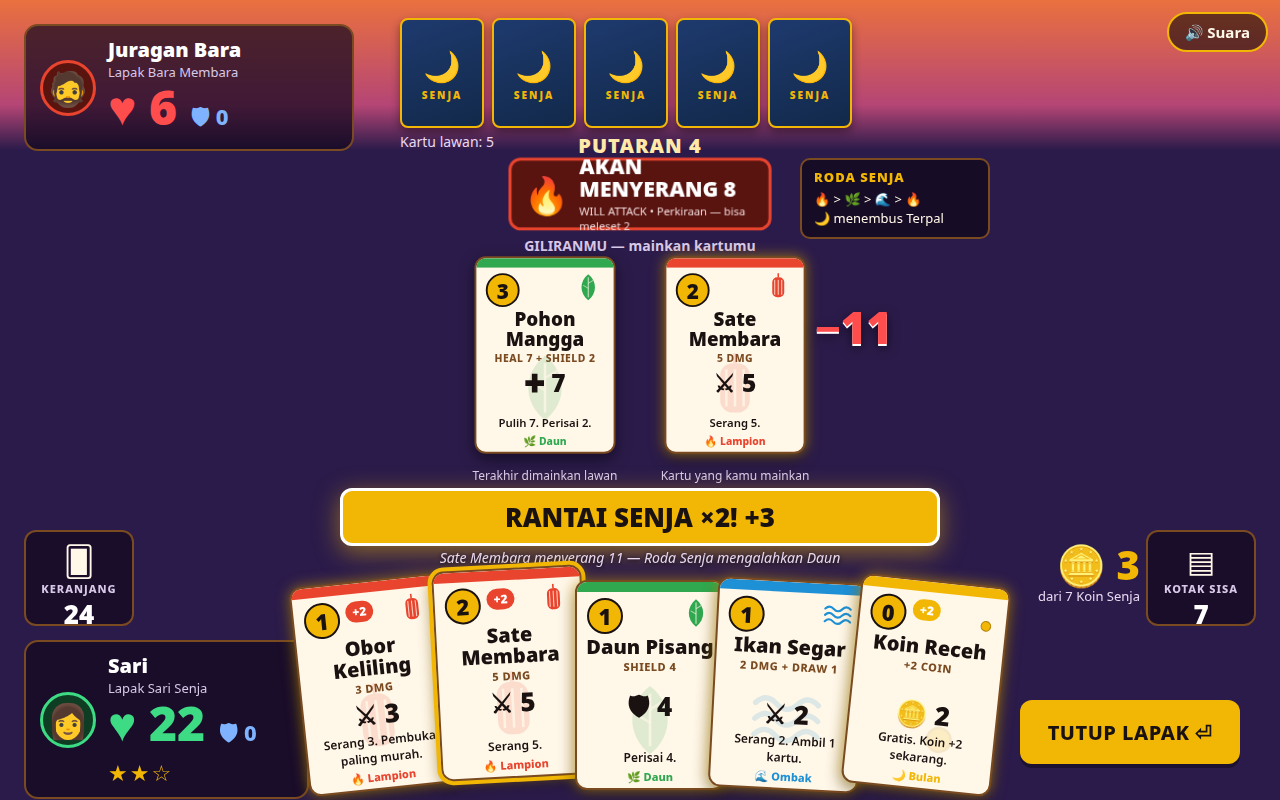
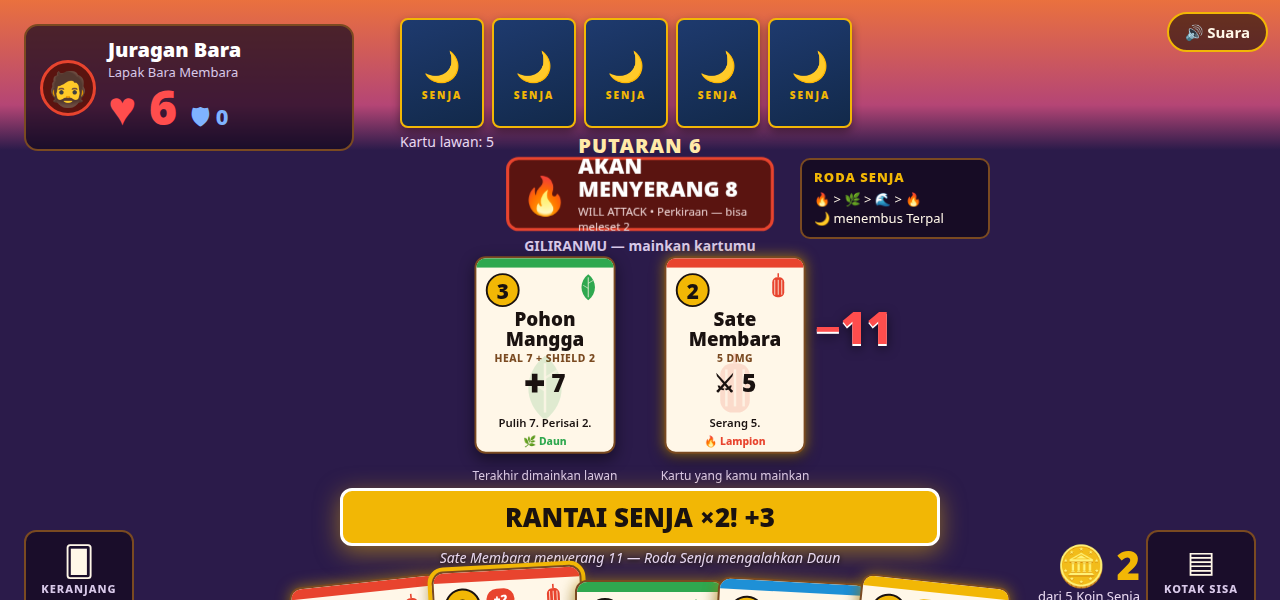
Senja di Pasar — Duel Lapak Terakhir (make.fun best card game v2 — rebalance)

diff --git a/game/js/cards.js b/game/js/cards.js
@@ -52,30 +52,30 @@ export const CARDS = [
   { id: 'arang', name: 'Arang Panas', en: '2 DMG + BURN 2', suit: 'lampion', cost: 1, dmg: 2, burn: 2, text: 'Bara yang terus menyala.', big: '⚔ 2' },
   { id: 'sate', name: 'Sate Membara', en: '5 DMG', suit: 'lampion', cost: 2, dmg: 5, text: 'Serang 5.', big: '⚔ 5' },
   { id: 'cabai', name: 'Cabai Rawit', en: '4 DMG PIERCE', suit: 'lampion', cost: 2, dmg: 4, pierce: true, text: 'Pedasnya menembus terpal.', big: '⚔ 4' },
-  { id: 'mercon', name: 'Mercon Senja', en: '7 DMG', suit: 'lampion', cost: 3, dmg: 7, text: 'Serang 7.', big: '⚔ 7' },
-  { id: 'lampion-raksasa', name: 'Lampion Raksasa', en: '9 DMG', suit: 'lampion', cost: 4, dmg: 9, text: 'Serang 9.', big: '⚔ 9' },
-  { id: 'kembang-api', name: 'Kembang Api', en: '11 DMG', suit: 'lampion', cost: 5, dmg: 11, discardSelf: 1, text: 'Serang 11. Buang 1 kartu.', big: '⚔ 11' },
+  { id: 'mercon', name: 'Mercon Senja', en: '6 DMG', suit: 'lampion', cost: 3, dmg: 6, text: 'Serang 6.', big: '⚔ 6' },
+  { id: 'lampion-raksasa', name: 'Lampion Raksasa', en: '7 DMG', suit: 'lampion', cost: 4, dmg: 7, text: 'Serang 7.', big: '⚔ 7' },
+  { id: 'kembang-api', name: 'Kembang Api', en: '9 DMG', suit: 'lampion', cost: 5, dmg: 9, discardSelf: 1, text: 'Serang 9. Buang 1 kartu.', big: '⚔ 9' },
   { id: 'es-batu', name: 'Es Batu', en: 'SHIELD 3 + DRAW 1', suit: 'ombak', cost: 1, shield: 3, draw: 1, text: 'Perisai 3. Ambil 1 kartu.', big: '🛡 3' },
   { id: 'ikan', name: 'Ikan Segar', en: '2 DMG + DRAW 1', suit: 'ombak', cost: 1, dmg: 2, draw: 1, text: 'Serang 2. Ambil 1 kartu.', big: '⚔ 2' },
   { id: 'jala', name: 'Jala Nelayan', en: '3 DMG + DISCARD', suit: 'ombak', cost: 2, dmg: 3, discardEnemy: 1, text: 'Serang 3. Lawan buang 1 kartu.', big: '⚔ 3' },
   { id: 'ombak-pasar', name: 'Ombak Pasar', en: '4 DMG + BREAK 3', suit: 'ombak', cost: 2, dmg: 4, breakShield: 3, text: 'Serang 4. Hancurkan 3 perisai.', big: '⚔ 4' },
   { id: 'hujan', name: 'Hujan Gerimis', en: 'HEAL 5 + 2 DMG', suit: 'ombak', cost: 3, heal: 5, dmg: 2, text: 'Pulih 5. Serang 2.', big: '✚ 5' },
   { id: 'perahu', name: 'Perahu Layar', en: '5 DMG + DRAW 1', suit: 'ombak', cost: 3, dmg: 5, draw: 1, text: 'Serang 5. Ambil 1 kartu.', big: '⚔ 5' },
-  { id: 'badai', name: 'Badai Pesisir', en: '8 DMG + DISCARD 2', suit: 'ombak', cost: 5, dmg: 8, discardEnemy: 2, text: 'Serang 8. Lawan buang 2 kartu.', big: '⚔ 8' },
+  { id: 'badai', name: 'Badai Pesisir', en: '6 DMG + DISCARD 2', suit: 'ombak', cost: 5, dmg: 6, discardEnemy: 2, text: 'Serang 6. Lawan buang 2 kartu.', big: '⚔ 6' },
   { id: 'daun-pisang', name: 'Daun Pisang', en: 'SHIELD 4', suit: 'daun', cost: 1, shield: 4, text: 'Perisai 4.', big: '🛡 4' },
-  { id: 'rempah', name: 'Rempah Wangi', en: '+2 COIN NEXT', suit: 'daun', cost: 1, coinsNext: 2, text: 'Koin +2 giliran depan.', big: '🪙 2' },
+  { id: 'rempah', name: 'Rempah Wangi', en: '+1 COIN NEXT', suit: 'daun', cost: 1, coinsNext: 1, text: 'Koin +1 giliran depan.', big: '🪙 1' },
   { id: 'jamu', name: 'Jamu Kunyit', en: 'HEAL 5', suit: 'daun', cost: 2, heal: 5, text: 'Pulih 5.', big: '✚ 5' },
   { id: 'sayur', name: 'Sayur Segar', en: 'SHIELD 5 + DRAW 1', suit: 'daun', cost: 2, shield: 5, draw: 1, text: 'Perisai 5. Ambil 1 kartu.', big: '🛡 5' },
   { id: 'pohon-mangga', name: 'Pohon Mangga', en: 'HEAL 7 + SHIELD 2', suit: 'daun', cost: 3, heal: 7, shield: 2, text: 'Pulih 7. Perisai 2.', big: '✚ 7' },
   { id: 'kebun', name: 'Kebun Tetangga', en: 'HEAL 4 + DRAW 2', suit: 'daun', cost: 3, heal: 4, draw: 2, text: 'Pulih 4. Ambil 2 kartu.', big: '✚ 4' },
   { id: 'panen-raya', name: 'Panen Raya', en: 'HEAL 8 + SHIELD 4', suit: 'daun', cost: 5, heal: 8, shield: 4, text: 'Pulih 8. Perisai 4.', big: '✚ 8' },
-  { id: 'koin-receh', name: 'Koin Receh', en: '+2 COIN', suit: 'bulan', cost: 0, coins: 2, text: 'Gratis. Koin +2 sekarang.', big: '🪙 2' },
-  { id: 'dompet', name: 'Dompet Kulit', en: 'DRAW 2', suit: 'bulan', cost: 1, draw: 2, text: 'Ambil 2 kartu.', big: '▤ 2' },
+  { id: 'koin-receh', name: 'Koin Receh', en: '+1 COIN', suit: 'bulan', cost: 0, coins: 1, text: 'Gratis. Koin +1 sekarang.', big: '🪙 1' },
+  { id: 'dompet', name: 'Dompet Kulit', en: 'DRAW 1', suit: 'bulan', cost: 1, draw: 1, text: 'Ambil 1 kartu.', big: '▤ 1' },
   { id: 'tabungan', name: 'Tabungan Senja', en: 'SHIELD 4 + COIN 1', suit: 'bulan', cost: 2, shield: 4, coins: 1, text: 'Perisai 4. Koin +1.', big: '🛡 4' },
-  { id: 'timbangan', name: 'Timbangan Adil', en: '3 DMG + COIN 2', suit: 'bulan', cost: 2, dmg: 3, coins: 2, text: 'Serang 3. Koin +2.', big: '⚔ 3' },
-  { id: 'lelang', name: 'Lelang Kilat', en: '6 DMG', suit: 'bulan', cost: 3, dmg: 6, special: 'lelang', text: 'Serang 6. Lawan sekarat: +3 koin.', big: '⚔ 6' },
-  { id: 'juragan-datang', name: 'Juragan Datang', en: '8 DMG', suit: 'bulan', cost: 4, dmg: 8, special: 'juragan', text: 'Serang 8. Hancurkan terpal: +3 koin.', big: '⚔ 8' },
-  { id: 'bulan-purnama', name: 'Bulan Purnama', en: '10 DMG + HEAL 5', suit: 'bulan', cost: 5, dmg: 10, heal: 5, text: 'Serang 10. Pulih 5.', big: '⚔ 10' },
+  { id: 'timbangan', name: 'Timbangan Adil', en: '3 DMG + COIN 1', suit: 'bulan', cost: 2, dmg: 3, coins: 1, text: 'Serang 3. Koin +1.', big: '⚔ 3' },
+  { id: 'lelang', name: 'Lelang Kilat', en: '5 DMG', suit: 'bulan', cost: 3, dmg: 5, special: 'lelang', text: 'Serang 5. Lawan sekarat: +2 koin.', big: '⚔ 5' },
+  { id: 'juragan-datang', name: 'Juragan Datang', en: '7 DMG', suit: 'bulan', cost: 4, dmg: 7, special: 'juragan', text: 'Serang 7. Hancurkan terpal: +2 koin.', big: '⚔ 7' },
+  { id: 'bulan-purnama', name: 'Bulan Purnama', en: '8 DMG + HEAL 5', suit: 'bulan', cost: 5, dmg: 8, heal: 5, text: 'Serang 8. Pulih 5.', big: '⚔ 8' },
 ];
 
 export function cardById(id) {

diff --git a/game/js/ai.js b/game/js/ai.js
@@ -6,8 +6,8 @@ import { isPureHeal, isAttack } from './cards.js';
 
 export function determineMood(ai, player) {
   if (ai.life < 10) return 'bertahan';
-  if (player.shield === 0 && ai.hand.some(isAttack)) return 'menyerang';
-  if (ai.hand.length >= 6) return 'membuang';
+  if (player.shield <= 4 && ai.hand.some(isAttack)) return 'menyerang';
+  if (ai.hand.length >= 7) return 'membuang';
   return 'berimbang';
 }
 
@@ -21,21 +21,25 @@ export function moodLabel(mood) {
 }
 
 // Nilai satu kartu menurut watak AI saat ini (makin besar makin diprioritaskan).
-function cardScore(card, mood, round) {
+// v2: AI dinilai seperti pemain serakah — damage dan ekonomi (draw/koin) berat,
+// karena AI v1 terlalu sering membuang koin untuk kartu bertahan/draw yang
+// tidak menutup game, sehingga damage AI cuma ~5/giliran.
+function cardScore(card, mood, round, foeLife) {
   let s = 0;
   const dmg = card.dmg || 0;
   const shield = card.shield || 0;
   const heal = card.heal || 0;
   const draw = card.draw || 0;
   const coins = (card.coins || 0) + (card.coinsNext || 0);
+  const dmgW = foeLife <= 10 ? 5 : 3;
   if (mood === 'bertahan') {
-    s += heal * 3 + shield * 2 + dmg * 0.5;
+    s += heal * 3 + shield * 2 + dmg * 1;
   } else if (mood === 'menyerang') {
-    s += dmg * 3 + draw * 1 + shield * 0.3;
+    s += dmg * dmgW + draw * 2 + coins * 2 + shield * 0.5;
   } else if (mood === 'membuang') {
-    s += draw * 2 + dmg * 1.5 + shield * 1 - card.cost * 2;
+    s += draw * 2 + dmg * 2 + shield * 1 + coins * 2 - card.cost * 2;
   } else {
-    s += dmg * 2 + shield * 1.2 + heal * 1.2 + draw * 1.5 + coins * 1.5;
+    s += dmg * 3 + shield * 1 + heal * 0.5 + draw * 2 + coins * 2;
   }
   // Kartu mahal terasa pamungkas, tapi jangan boros di awal game.
   if (round <= 2 && card.cost >= 5) s -= 100;
@@ -44,24 +48,54 @@ function cardScore(card, mood, round) {
 
 // Pilih kartu yang akan dimainkan AI di gilirannya. Mengembalikan array kartu
 // (urut main), tanpa mengubah state.
+// v2: rencana dibuat dengan SIMULASI giliran di atas salinan tangan + deck —
+// kartu draw/koin yang dimainkan di tengah giliran ikut membuka kartu
+// berikutnya, persis seperti pemain serakah. Rencana v1 (pilih sekali dari
+// tangan awal) membuat AI tidak pernah memakai kartu hasil draw, sehingga
+// damage AI mentok ~5/giliran sementara pemain ~8-11.
 export function chooseCards(ai, player, round) {
   const mood = determineMood(ai, player);
+  const hand = ai.hand.slice();
+  const deck = ai.deck.slice();
   let coins = ai.coins;
-  const maxCards = round === 1 ? 1 : 3;
   const chosen = [];
-  const pool = ai.hand.slice().sort((a, b) => cardScore(b, mood, round) - cardScore(a, mood, round));
-
-  for (const card of pool) {
-    if (chosen.length >= maxCards) break;
-    if (card.cost > coins) continue;
-    // AI hanya heal saat watak Bertahan (§5, perbaikan §6A).
-    if (isPureHeal(card) && mood !== 'bertahan') continue;
-    // Panen Raya maksimal 1x per game.
-    if (card.id === 'panen-raya' && ai.panenUsed) continue;
-    // AI tidak memakai kartu biaya 5 di Putaran 1-2 (ia "menabung").
-    if (round <= 2 && card.cost >= 5) continue;
-    chosen.push(card);
-    coins -= card.cost;
+  const maxCards = round === 1 ? 2 : 6;
+  const blocked = (card) => {
+    if (card.cost > coins) return true;
+    if (isPureHeal(card) && mood !== 'bertahan') return true;
+    if (card.id === 'panen-raya' && ai.panenUsed) return true;
+    if (round <= 2 && card.cost >= 5) return true;
+    return false;
+  };
+  const scoreOf = (card) => {
+    let s = cardScore(card, mood, round, player.life);
+    if (chosen.some((c) => c.suit === card.suit)) s += 4; // Resonansi
+    if (chosen.length > 0 && card.cost === chosen[chosen.length - 1].cost + 1) s += 4; // Rantai
+    return s;
+  };
+  while (chosen.length < maxCards) {
+    const affordable = hand.filter((c) => !blocked(c));
+    if (affordable.length === 0) break;
+    // Kartu ekonomi murah didahulukan bila belum ada kartu dipilih (mendanai serangan).
+    let pick = null;
+    if (chosen.length === 0) {
+      const econ = affordable
+        .filter((c) => ((c.coins || 0) > 0 || (c.draw || 0) > 0) && c.cost <= 1)
+        .sort((a, b) => ((b.coins || 0) + (b.draw || 0)) - ((a.coins || 0) + (a.draw || 0)));
+      if (econ.length > 0) pick = econ[0];
+    }
+    if (!pick) {
+      affordable.sort((a, b) => scoreOf(b) - scoreOf(a));
+      pick = affordable[0];
+    }
+    const idx = hand.indexOf(pick);
+    hand.splice(idx, 1);
+    chosen.push(pick);
+    coins -= pick.cost;
+    coins += pick.coins || 0;
+    for (let k = 0; k < (pick.draw || 0); k++) {
+      if (deck.length > 0) hand.push(deck.pop());
+    }
   }
   return chosen;
 }

diff --git a/game/js/hand.js b/game/js/hand.js
@@ -2,6 +2,7 @@
 // Bekerja di atas state.js / combos.js / deck.js. Tanpa DOM.
 
 import { computeBonuses } from './combos.js';
+import { BASE_COINS } from './state.js';
 import { drawFromDeck, discardRandom } from './deck.js';
 import { applyDamageTo, healSide, senjaTerakhirActive, MAX_HAND, addLog } from './state.js';
 
@@ -21,7 +22,7 @@ export function startTurn(state, sideName) {
     me.life = Math.max(0, me.life - burn);
     messages.push('Bara membakar ' + (sideName === 'player' ? 'Sari' : 'Juragan Bara') + ' −' + burn);
   }
-  me.coinsMax = 5 + (senjaTerakhirActive(me) ? 1 : 0);
+  me.coinsMax = BASE_COINS + (senjaTerakhirActive(me) ? 1 : 0);
   me.coins = me.coinsMax + me.coinsNext;
   me.coinsNext = 0;
   me.played = [];
@@ -92,12 +93,12 @@ export function playCard(state, sideName, uid) {
     events.push({ type: 'damage', amount: res.dealt, absorbed: res.absorbed, target: foeName, pierce: bonuses.pierce });
     state.floating = { text: '−' + res.dealt, target: foeName };
     if (card.special === 'juragan' && shieldBefore > 0) {
-      me.coins += 3;
-      messages.push('Juragan Datang: terpal dihancurkan, +3 koin');
+      me.coins += 2;
+      messages.push('Juragan Datang: terpal dihancurkan, +2 koin');
     }
     if (card.special === 'lelang' && foe.life <= 10 && foe.life > 0) {
-      me.coins += 3;
-      messages.push('Lelang Kilat: lawan sekarat, +3 koin');
+      me.coins += 2;
+      messages.push('Lelang Kilat: lawan sekarat, +2 koin');
     }
     me.firstAttackDone = true;
   }

diff --git a/game/js/shots.js b/game/js/shots.js
@@ -42,16 +42,18 @@ export function stageShot(name) {
     state.winner = 'enemy';
     return state;
   }
-  // table — Shot 1 cover (§6 Pilihan C, setelah kartu ketiga dimainkan).
+  // table — Shot 1 cover (§6 Pilihan C, setelah kartu ketiga dimainkan, v2).
+  // v2: Putaran 6 (bukan 4 — dengan nyawa 50, lawan baru turun ke 6 di putaran 6),
+  // koin 2 dari 5 (basis 4 + Koin Receh +1, sudah dipakai Obor 1 + Sate 2).
   state.phase = 'player';
-  state.round = 4;
+  state.round = 6;
   state.player.life = 22;
   state.player.shield = 0;
-  state.player.coins = 3;
-  state.player.coinsMax = 7;
+  state.player.coins = 2;
+  state.player.coinsMax = 5;
   state.player.hand = [inst('obor'), inst('sate'), inst('daun-pisang'), inst('ikan'), inst('koin-receh')];
-  state.player.deck = fillPile(24, 'obor');
-  state.player.discard = fillPile(7, 'daun-pisang');
+  state.player.deck = fillPile(17, 'obor');
+  state.player.discard = fillPile(9, 'daun-pisang');
   state.player.played = [{ card: inst('koin-receh'), cost: 0 }, { card: inst('obor'), cost: 1 }, { card: inst('sate'), cost: 2 }];
   state.enemy.life = 6;
   state.enemy.shield = 0;
@@ -67,7 +69,7 @@ export function stageShot(name) {
     icon: '🔥', color: '#E8442E', bg: '#5A1410',
     note: 'Perkiraan — bisa meleset 2',
   };
-  state.stars = 2;
+  state.stars = 3; // Reputasi 22 >= 20 -> 3 bintang (rumus starsFor).
   state.selectedIndex = 1;
   state.log = ['Sate Membara menyerang 11 — Roda Senja mengalahkan Daun'];
   return state;

diff --git a/game/js/combos.js b/game/js/combos.js
@@ -13,7 +13,7 @@ export function resonanceBonus(suit) {
     case 'lampion': return { label: 'RESONANSI LAMPION! +2 SERANG', dmg: 2 };
     case 'ombak': return { label: 'RESONANSI OMBAK! +1 DRAW', draw: 1 };
     case 'daun': return { label: 'RESONANSI DAUN! +3 PERISAI', shield: 3 };
-    case 'bulan': return { label: 'RESONANSI BULAN! +2 KOIN', refund: 2 };
+    case 'bulan': return { label: 'RESONANSI BULAN! +1 KOIN', refund: 1 };
     default: return { label: '' };
   }
 }

diff --git a/game/js/main.js b/game/js/main.js
@@ -128,7 +128,7 @@ function runEnemyTurn() {
   if (!plan) {
     plan = planTurn(state.enemy, state.player, state.round);
   }
-  const queue = plan.cards.slice(0, 3);
+  const queue = plan.cards.slice(0, 6); // v2: rencana AI hasil simulasi bisa sampai 6 kartu (ekonomi + inti); potongan 3 kartu v1 membuang rencana itu.
   let i = 0;
   show();
   const step = () => {

diff --git a/game/js/state.js b/game/js/state.js
@@ -3,9 +3,9 @@
 
 import { buildDeck } from './deck.js';
 
-export const MAX_LIFE = 30;
+export const MAX_LIFE = 50;
 export const MAX_HAND = 8;
-export const BASE_COINS = 5;
+export const BASE_COINS = 4;
 
 export function freshSide() {
   return {

diff --git a/README.md b/README.md
@@ -4,7 +4,7 @@
 [![rank](https://make.fun/badge/best-card-game-20261122-1826/kuzan-creator/senja-di-pasar/rank.svg)](https://make.fun/bounty/best-card-game-20261122-1826/leaderboard)
 [![reward](https://make.fun/badge/best-card-game-20261122-1826/kuzan-creator/senja-di-pasar/reward.svg)](https://make.fun/bounty/best-card-game-20261122-1826)
 
-**Senja di Pasar — Duel Lapak Terakhir.** An original offline card game for the desktop browser. You are **Sari**, a dusk-market stall trader, duelling **Juragan Bara**, a rival who wants the whole market. Spend 5 Koin Senja a turn, combine 28 trading cards across 4 suits — Lampion, Ombak, Daun, Bulan — chase Resonansi, Rantai Senja, Roda Senja and Pasar Ramai combos, read your opponent's intent before you play, and bring their Reputation to 0 before your lamp goes out.
+**Senja di Pasar — Duel Lapak Terakhir.** An original offline card game for the desktop browser. You are **Sari**, a dusk-market stall trader, duelling **Juragan Bara**, a rival who wants the whole market. Spend 4 Koin Senja a turn, combine 28 trading cards across 4 suits — Lampion, Ombak, Daun, Bulan — chase Resonansi, Rantai Senja, Roda Senja and Pasar Ramai combos, read your opponent's intent before you play, and bring their Reputation to 0 before your lamp goes out.
 
 > Dua lapak, satu senja. Habiskan Reputasi lawan sebelum lampumu padam.
 
@@ -12,8 +12,8 @@
 
 Open `game/index.html` in a desktop browser (or serve `game/` with any static server). No network, no build step, no files outside `game/`.
 
-- **Goal:** reduce Juragan Bara's Reputasi from 30 to 0. If yours hits 0, your stall closes.
-- **Turn:** draw 2 cards, spend up to 5 Koin Senja (6 when Senja Terakhir is active at Reputasi ≤ 10), then press **TUTUP LAPAK**.
+- **Goal:** reduce Juragan Bara's Reputasi from 50 to 0. If yours hits 0, your stall closes.
+- **Turn:** draw 2 cards, spend up to 4 Koin Senja (5 when Senja Terakhir is active at Reputasi ≤ 10), then press **TUTUP LAPAK**.
 - **Cards:** click a card to select it, click again (or press Enter) to play it. Keys **1–8** select, **Enter** plays, **Space** ends the turn, **M** mutes, **R** plays again on the end screens.
 - **Combos:** two cards of the same suit in one turn trigger Resonansi; rising costs trigger Rantai Senja; three different suits trigger Pasar Ramai; a suit that beats the opponent's last suit on the Roda Senja (Lampion > Daun > Ombak > Lampion) hits +3.
 - **Intent:** the badge above the table tells you what Juragan Bara will do next — attack, shield, or heal — so you can answer it before it happens.
